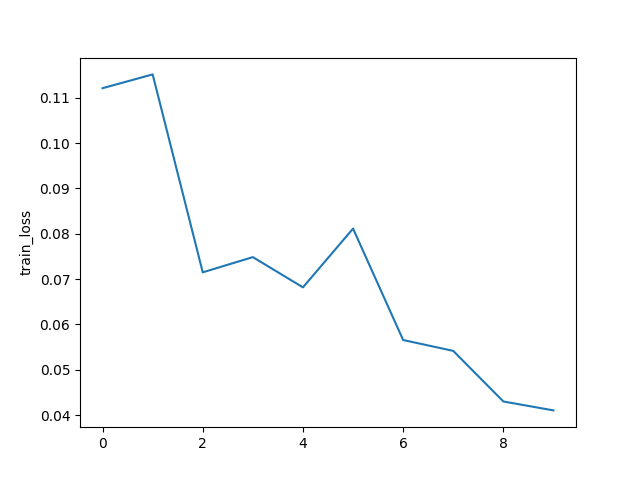
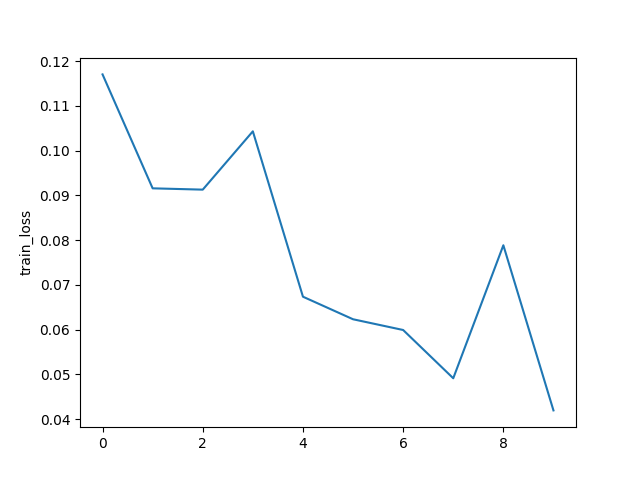
learn code

diff --git a/federated-learning-master/main_fed.py b/federated-learning-master/main_fed.py
@@ -66,6 +66,7 @@ if __name__ == '__main__':
     net_glob.train()
 
     # copy weights
+    # init global model weight
     w_glob = net_glob.state_dict()
 
     # training
@@ -76,44 +77,55 @@ if __name__ == '__main__':
     best_loss = None
     val_acc_list, net_list = [], []
 
-    # if args.all_clients: 
-    #     print("Aggregation over all clients")
-    #     w_locals = [w_glob for i in range(args.num_users)]
-    # for iter in range(args.epochs):
-    #     loss_locals = []
-    #     if not args.all_clients:
-    #         w_locals = []
-    #     m = max(int(args.frac * args.num_users), 1)
-    #     idxs_users = np.random.choice(range(args.num_users), m, replace=False)
-    #     for idx in idxs_users:
-    #         local = LocalUpdate(args=args, dataset=dataset_train, idxs=dict_users[idx])
-    #         w, loss = local.train(net=copy.deepcopy(net_glob).to(args.device))
-    #         if args.all_clients:
-    #             w_locals[idx] = copy.deepcopy(w)
-    #         else:
-    #             w_locals.append(copy.deepcopy(w))
-    #         loss_locals.append(copy.deepcopy(loss))
-    #     # update global weights
-    #     w_glob = FedAvg(w_locals)
+    # args.num_users -> 100
+    if args.all_clients: 
+        print("Aggregation over all clients")
+        w_locals = [w_glob for i in range(args.num_users)]
+    for iter in range(args.epochs):
+        loss_locals = []
+        if not args.all_clients:
+            w_locals = []
+        # args.frac: the fraction of clients: default 0.1
+        # 每轮通信参与联邦训练的客户端数量
+        m = max(int(args.frac * args.num_users), 1)
+        # clients sample 过程
+        idxs_users = np.random.choice(range(args.num_users), m, replace=False)
+        for idx in idxs_users:
+            # local model train process
+            local = LocalUpdate(args=args, dataset=dataset_train, idxs=dict_users[idx])
+            # w: 本地模型基于本地私有数据训练得到的权重
+            # loss: 相应训练损失
+            w, loss = local.train(net=copy.deepcopy(net_glob).to(args.device))
+            if args.all_clients:
+                w_locals[idx] = copy.deepcopy(w)
+            else:
+                w_locals.append(copy.deepcopy(w))
+            loss_locals.append(copy.deepcopy(loss))
+            # w_locals -> 以 list 的形式汇总本地客户端的训练结果权重
+            # loss_locals -> 以 list 的形式汇总本地客户端的训练损失
+        # update global weights
+        # 每一轮通信根据本地训练结果, 通过中央服务器进行模型聚合
+        w_glob = FedAvg(w_locals)
 
-    #     # copy weight to net_glob
-    #     net_glob.load_state_dict(w_glob)
+        # copy weight to net_glob
+        # 在下一个 round 时本地客户端继承训练结果
+        net_glob.load_state_dict(w_glob)
 
-    #     # print loss
-    #     loss_avg = sum(loss_locals) / len(loss_locals)
-    #     print('Round {:3d}, Average loss {:.3f}'.format(iter, loss_avg))
-    #     loss_train.append(loss_avg)
+        # print loss
+        loss_avg = sum(loss_locals) / len(loss_locals)
+        print('Round {:3d}, Average loss {:.3f}'.format(iter, loss_avg))
+        loss_train.append(loss_avg)
 
     # # plot loss curve
-    # plt.figure()
-    # plt.plot(range(len(loss_train)), loss_train)
-    # plt.ylabel('train_loss')
-    # plt.savefig('./save/fed_{}_{}_{}_C{}_iid{}.png'.format(args.dataset, args.model, args.epochs, args.frac, args.iid))
+    plt.figure()
+    plt.plot(range(len(loss_train)), loss_train)
+    plt.ylabel('train_loss')
+    plt.savefig('./save/fed_{}_{}_{}_C{}_iid{}.png'.format(args.dataset, args.model, args.epochs, args.frac, args.iid))
 
-    # # testing
-    # net_glob.eval()
-    # acc_train, loss_train = test_img(net_glob, dataset_train, args)
-    # acc_test, loss_test = test_img(net_glob, dataset_test, args)
-    # print("Training accuracy: {:.2f}".format(acc_train))
-    # print("Testing accuracy: {:.2f}".format(acc_test))
+    # testing
+    net_glob.eval()
+    acc_train, loss_train = test_img(net_glob, dataset_train, args)
+    acc_test, loss_test = test_img(net_glob, dataset_test, args)
+    print("Training accuracy: {:.2f}".format(acc_train))
+    print("Testing accuracy: {:.2f}".format(acc_test))
 

diff --git a/federated-learning-master/utils/sampling.py b/federated-learning-master/utils/sampling.py
@@ -12,7 +12,7 @@ def mnist_iid(dataset, num_users):
     Sample I.I.D. client data from MNIST dataset
     :param dataset: variable :  <class 'torch.Tensor'> :  torch.Size([60000, 28, 28]) -> train_data
     :param num_users:   客户端个数 clients num
-    :return: dict of image index
+    :return: dict of image index (num_clients)
     """
     # set() 函数创建一个无序不重复元素集, 可进行关系测试, 删除重复数据, 还可以计算交集, 差集, 并集等。
     # np.random.choice(ndarray, int, replace = True, p = None)
@@ -21,7 +21,7 @@ def mnist_iid(dataset, num_users):
     
     # local dataset num
     num_items = int(len(dataset)/num_users) 
-    # 所有客户端数据 samples 的索引字典, 所有数据 samples 的索引列表
+    # dict_users -> 所有客户端数据 samples 的索引字典, all_idxs -> 所有数据 samples 的索引列表
     dict_users, all_idxs = {}, [i for i in range(len(dataset))]
     # 基于 clients num 执行循环
     for i in range(num_users):
@@ -37,9 +37,9 @@ def mnist_noniid(dataset, num_users):
     Sample non-I.I.D client data from MNIST dataset
     :param dataset:
     :param num_users:
-    :return:
+    :return: dict of image index (num_clients)
     """
-    # 将全部的 data 分成 200 组, 每一组 300 个数据 sample
+    # 将全部的 data 分成 200 组, 每一组 300 个数据 sample (num_users = 100, 60000/100 = 200 x 300)
     # 根据 clients 的数量, 需要从 0-199 中采样两组对应 2 x 300 = 600 个数据 sample 作为 client 的索引
     num_shards, num_imgs = 200, 300
     idx_shard = [i for i in range(num_shards)]

diff --git a/federated-learning-master/models/Update.py b/federated-learning-master/models/Update.py
@@ -8,7 +8,7 @@ from torch.utils.data import DataLoader, Dataset
 import numpy as np
 import random
 from sklearn import metrics
-
+from utils.Detective import tensor_deteciteve
 
 class DatasetSplit(Dataset):
     def __init__(self, dataset, idxs):
@@ -28,17 +28,22 @@ class LocalUpdate(object):
         self.args = args
         self.loss_func = nn.CrossEntropyLoss()
         self.selected_clients = []
+        # idxs: mnist 60000 imgs -> 600 x 100 (每个客户端持有 600 imgs 的私有数据)
+        # batch_size = self.args.local_bs: 10 (本地 model 训练的 batch_size 为 10)
         self.ldr_train = DataLoader(DatasetSplit(dataset, idxs), batch_size=self.args.local_bs, shuffle=True)
-
+        tensor_deteciteve(self.ldr_train)
     def train(self, net):
         net.train()
         # train and update
         optimizer = torch.optim.SGD(net.parameters(), lr=self.args.lr, momentum=self.args.momentum)
 
         epoch_loss = []
+        # self.args.local_ep: the number of local epochs: default 5
         for iter in range(self.args.local_ep):
             batch_loss = []
             for batch_idx, (images, labels) in enumerate(self.ldr_train):
+                # images: variable :  <class 'torch.Tensor'> :  torch.Size([10, 1, 28, 28])
+                # labels: variable :  <class 'torch.Tensor'> :  torch.Size([10])
                 images, labels = images.to(self.args.device), labels.to(self.args.device)
                 net.zero_grad()
                 log_probs = net(images)

diff --git a/federated-learning-master/utils/Detective.py b/federated-learning-master/utils/Detective.py
@@ -1,12 +1,19 @@
 from colorama import Fore, Style
 import re
 import inspect
+import torch
 def varname(p):
   for line in inspect.getframeinfo(inspect.currentframe().f_back)[3]:
     m = re.search(r'\bvarname\s*\(\s*([A-Za-z_][A-Za-z0-9_]*)\s*\)', line)
     if m:
       return m.group(1)
 def tensor_deteciteve(variable):
+  try:
     name = varname(variable)
     print(Fore.GREEN + name,": ", type(variable), ": ", variable.shape)
     print(Style.RESET_ALL)
+  except AttributeError:
+    print(Fore.RED + "AttributeError: Wrong Variable Type")
+    exit()
+  else:
+      None

diff --git a/myUtils/Detective.py b/myUtils/Detective.py
@@ -1,12 +1,19 @@
 from colorama import Fore, Style
 import re
 import inspect
+import torch
 def varname(p):
   for line in inspect.getframeinfo(inspect.currentframe().f_back)[3]:
     m = re.search(r'\bvarname\s*\(\s*([A-Za-z_][A-Za-z0-9_]*)\s*\)', line)
     if m:
       return m.group(1)
 def tensor_deteciteve(variable):
+  try:
     name = varname(variable)
     print(Fore.GREEN + name,": ", type(variable), ": ", variable.shape)
     print(Style.RESET_ALL)
+  except AttributeError:
+    print(Fore.RED + "AttributeError: Wrong Variable Type")
+    exit()
+  else:
+      None

diff --git a/federated-learning-master/utils/options.py b/federated-learning-master/utils/options.py
@@ -7,7 +7,7 @@ import argparse
 def args_parser():
     parser = argparse.ArgumentParser()
     # federated arguments
-    parser.add_argument('--epochs', type=int, default=1, help="rounds of training")
+    parser.add_argument('--epochs', type=int, default=10, help="rounds of training")
     parser.add_argument('--num_users', type=int, default=100, help="number of users: K")
     parser.add_argument('--frac', type=float, default=0.1, help="the fraction of clients: C")
     parser.add_argument('--local_ep', type=int, default=5, help="the number of local epochs: E")

diff --git a/federated-learning-master/models/Fed.py b/federated-learning-master/models/Fed.py
@@ -9,8 +9,9 @@ from torch import nn
 
 def FedAvg(w):
     w_avg = copy.deepcopy(w[0])
+    # k: model 各部分的可训练权重
     for k in w_avg.keys():
-        for i in range(1, len(w)):
-            w_avg[k] += w[i][k]
-        w_avg[k] = torch.div(w_avg[k], len(w))
+        for i in range(1, len(w)):  # i: 参与训练的 clients_num
+            w_avg[k] += w[i][k] # 各部分权重加和
+        w_avg[k] = torch.div(w_avg[k], len(w))  # 直接求平均(因为在划分数据集时, 每个客户端的私有数据量大小相同)
     return w_avg
